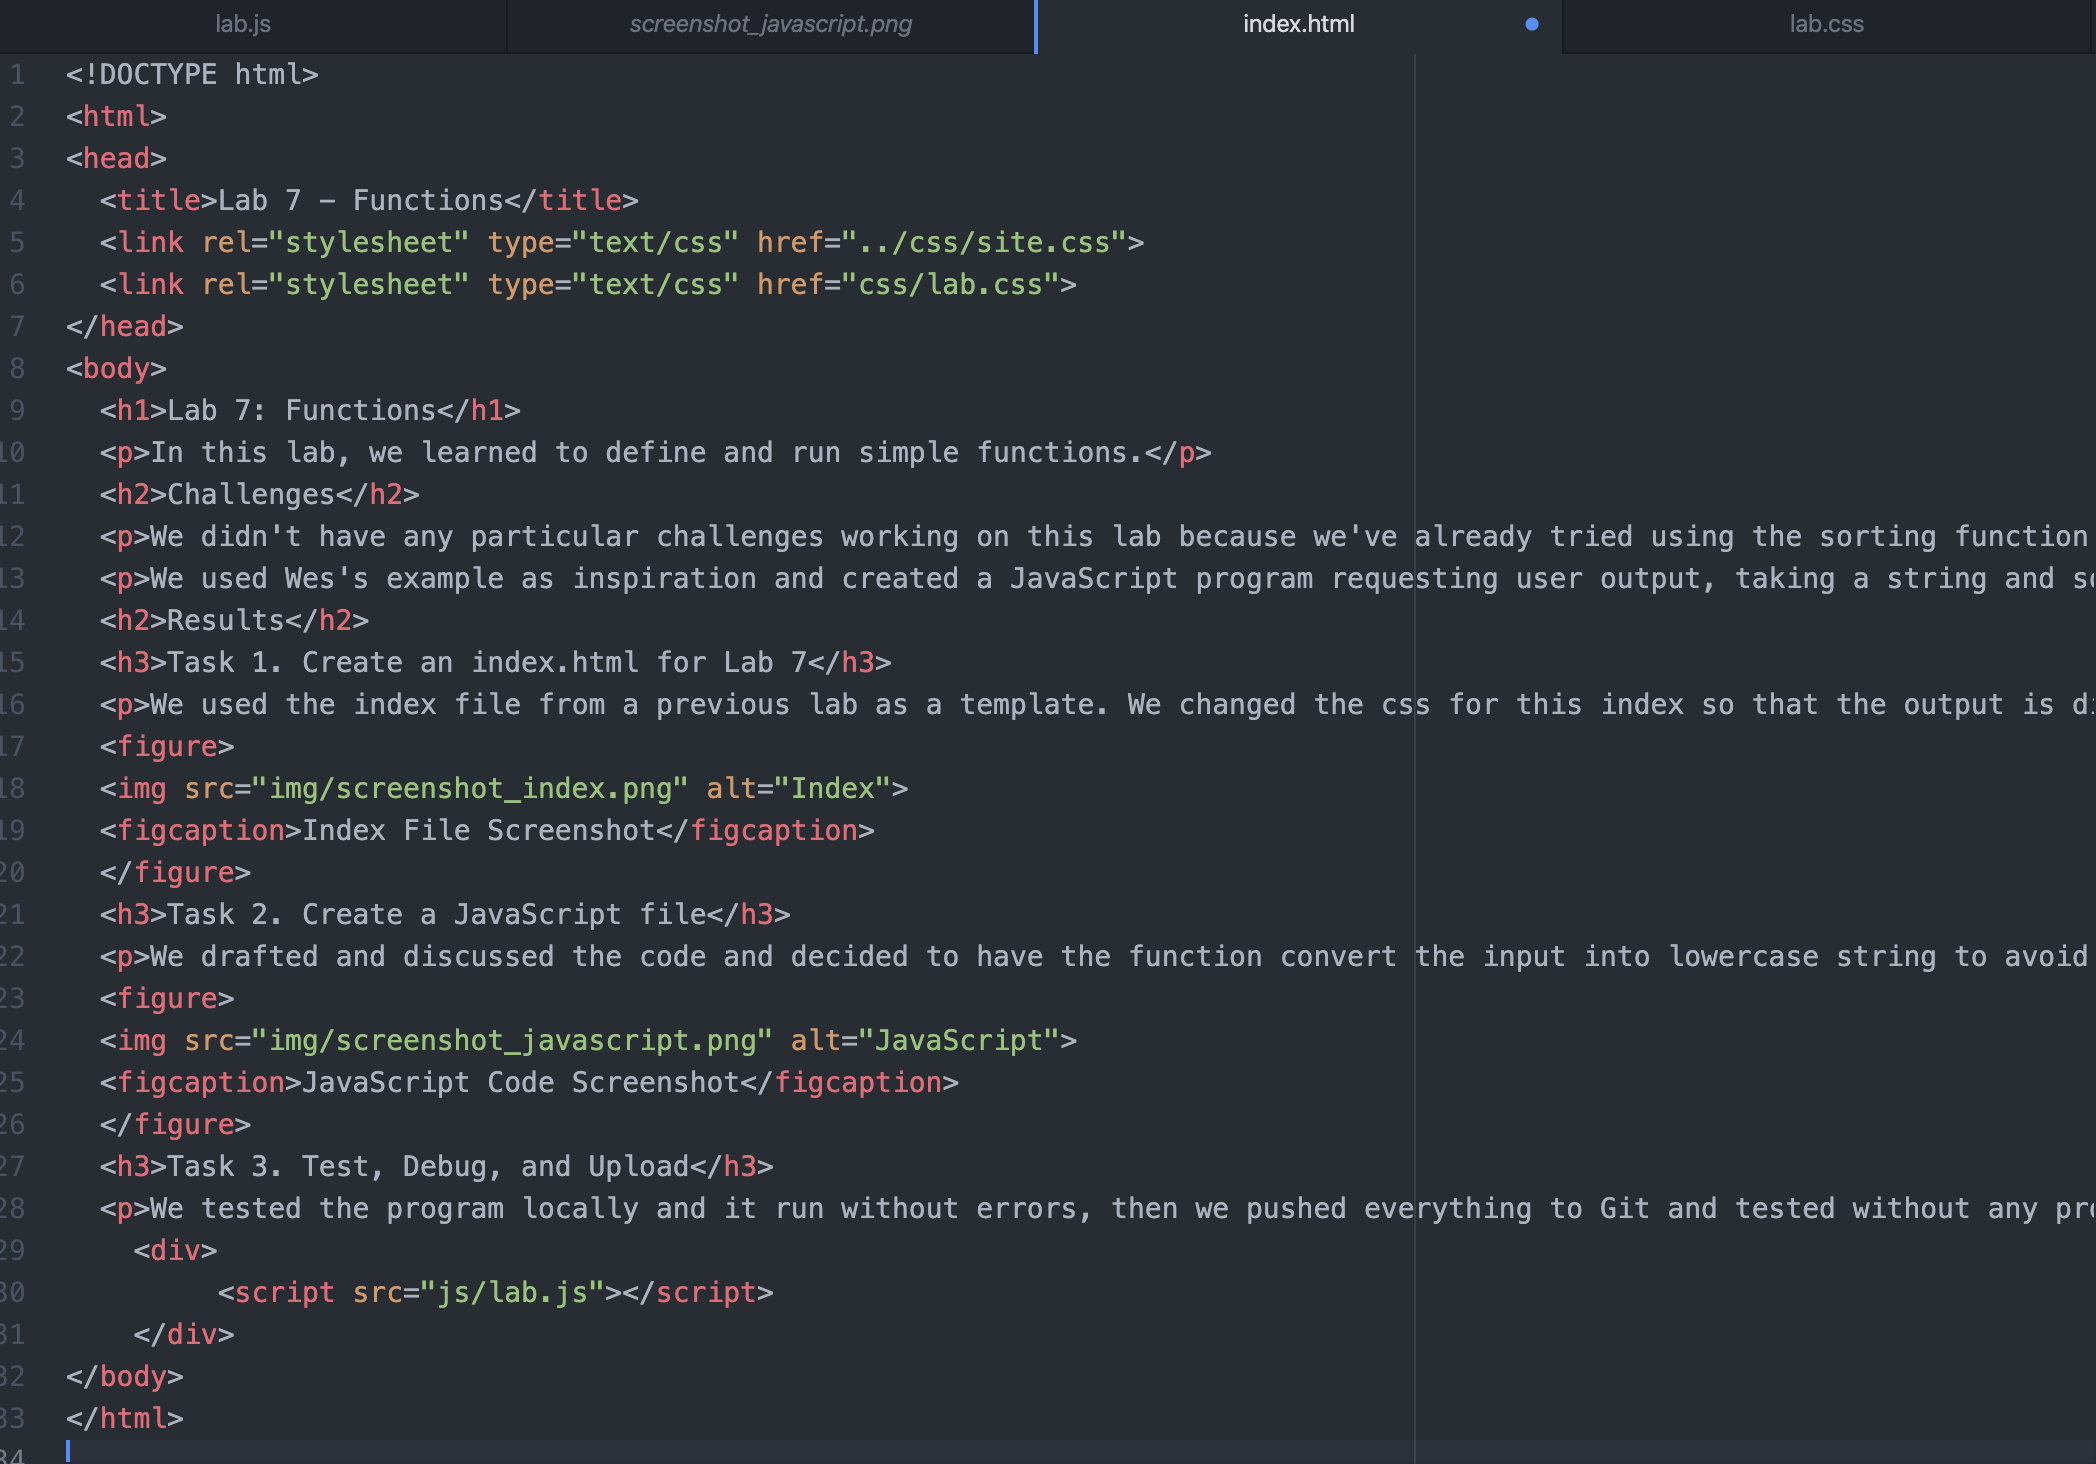
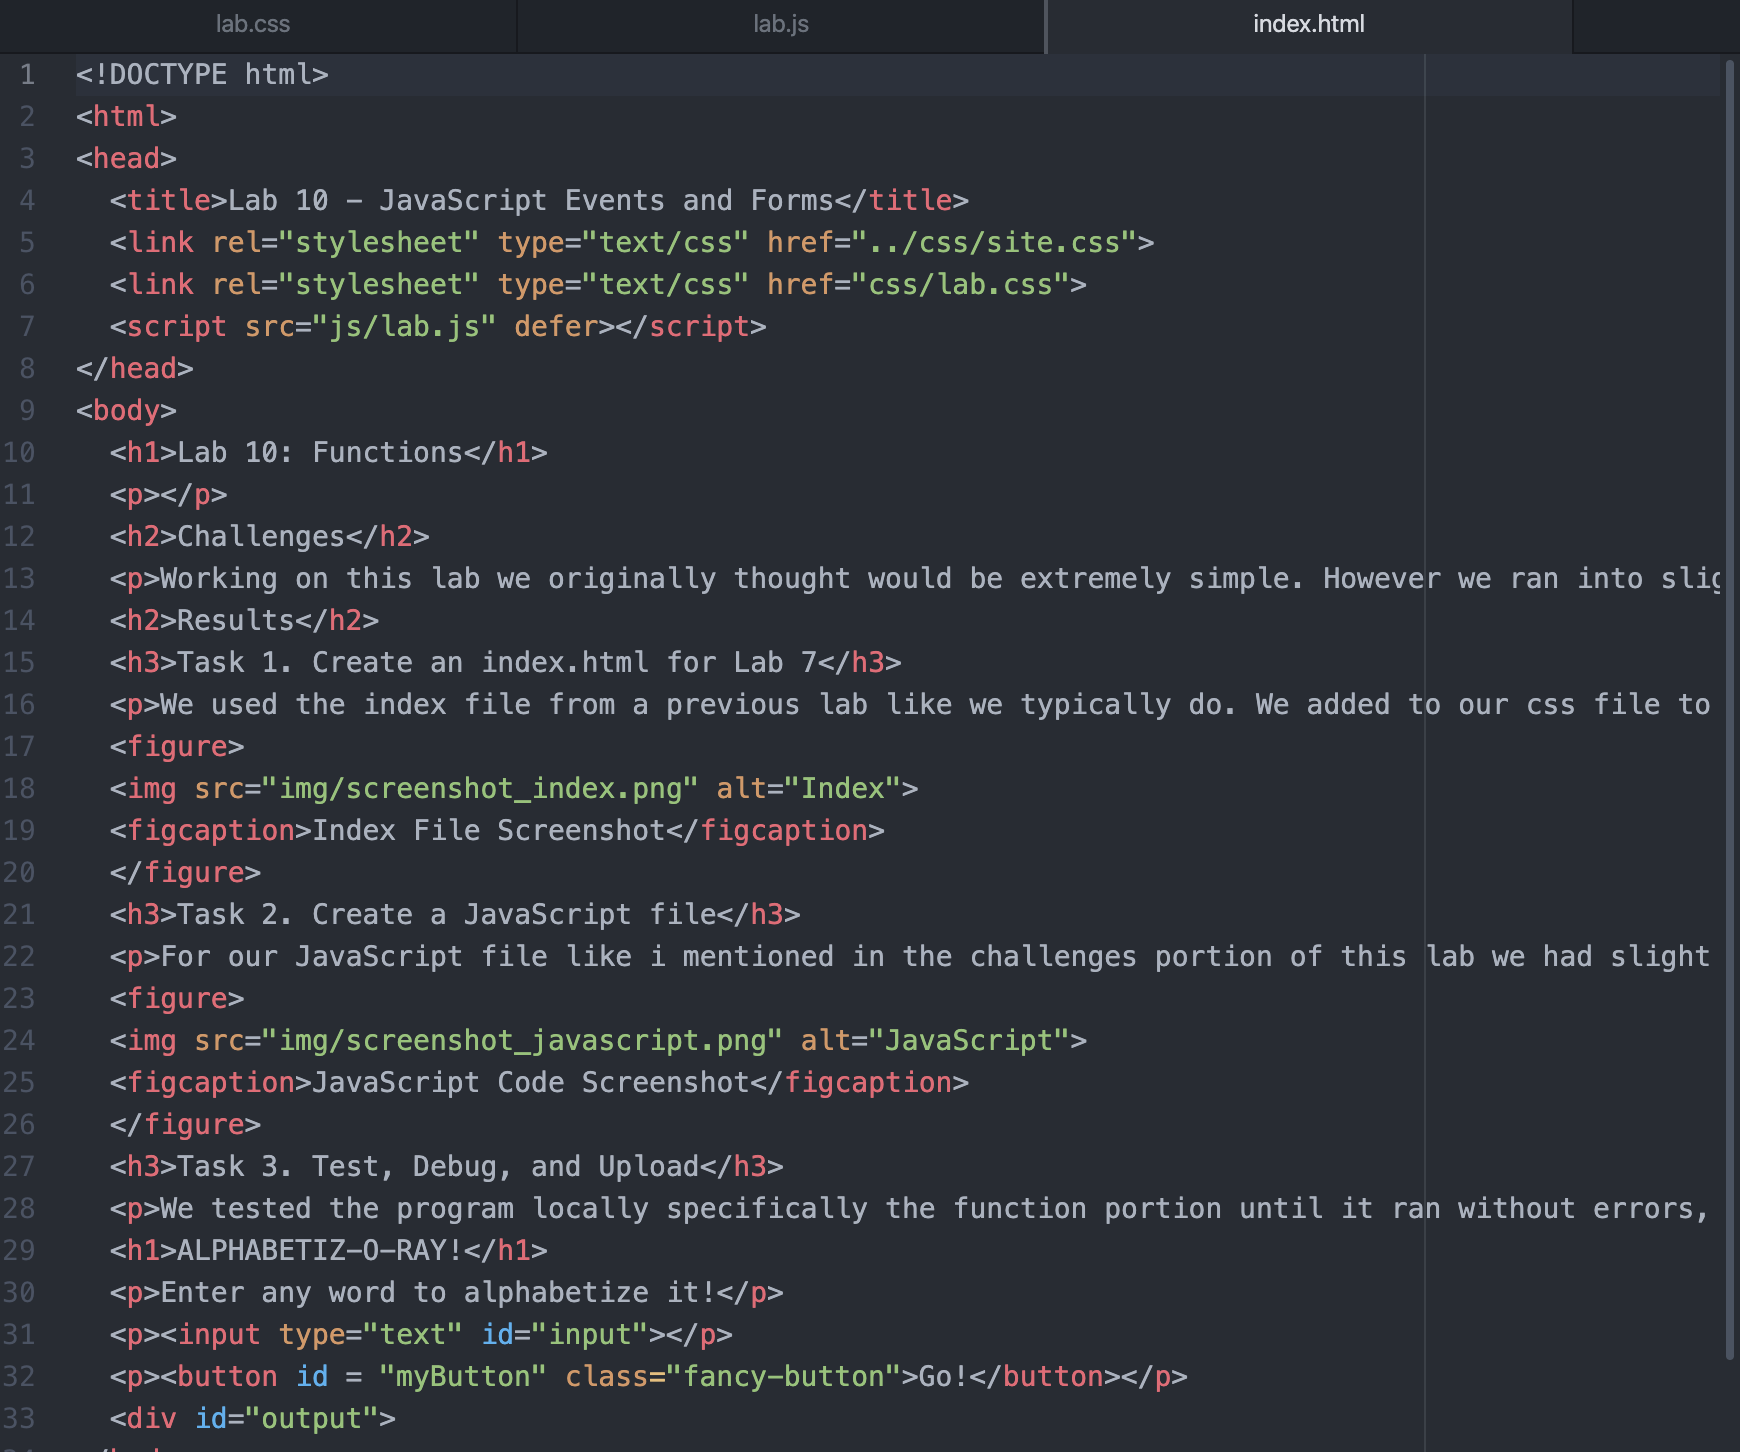
lab10img

diff --git a/lab10/index.html b/lab10/index.html
@@ -7,7 +7,7 @@
 	<script src="js/lab.js" defer></script>
 </head>
 <body>
-	<h1>Lab 10: Functions</h1>
+	<h1>Lab 10: JavaScript Events and Forms</h1>
 	<p></p>
 	<h2>Challenges</h2>
 	<p>Working on this lab we originally thought would be extremely simple. However we ran into slight difficulty trying to figure out how to make the button press function connect to the sorting function. The solution ended up being to combine our sorting function with our button press function which we originally had as seperate functions.</p>
